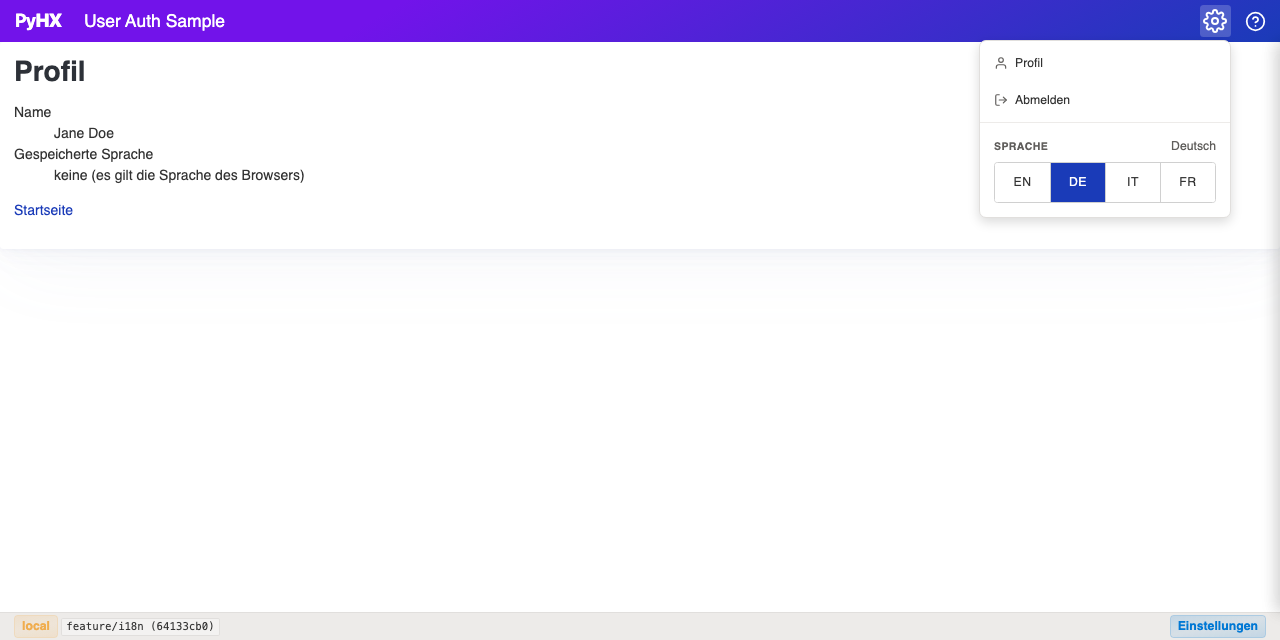
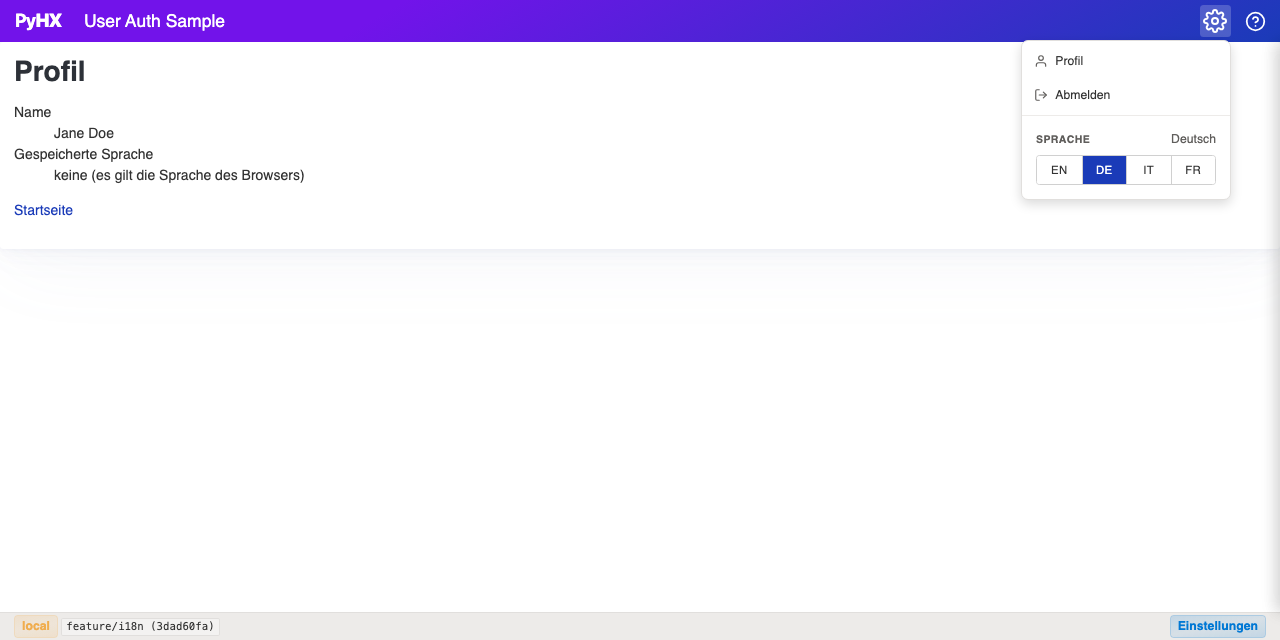
style(page-templates): compact settings menu on desktop, touch-size on phones (T-005)

Changed region(s): [[0.7812, 0.0625, 0.9688, 0.3438], [0.125, 0.9688, 0.1562, 1.0]]

diff --git a/src/pyhx/static/css/pyhx/components/layout/settings-menu.css b/src/pyhx/static/css/pyhx/components/layout/settings-menu.css
@@ -72,7 +72,7 @@
     flex-direction: column;
 
     /* Box */
-    width: 18rem;
+    width: 15rem;
     border: var(--hx-border-width-sm) solid var(--hx-color-neutral-300);
     border-radius: var(--hx-radius-lg);
 
@@ -158,7 +158,7 @@
         gap: var(--hx-spacing-sm);
 
         /* Box */
-        padding: 0.625rem 0.75rem;
+        padding: 0.5rem 0.625rem;
         border-radius: var(--hx-radius-md);
 
         /* Typography */
@@ -200,7 +200,7 @@
     & > button {
         /* Box */
         width: auto;
-        height: 2.75rem;
+        height: 2rem;
         margin: 0;
         padding: 0;
         border: 0;
@@ -208,7 +208,7 @@
         border-radius: 0;
 
         /* Typography */
-        font-size: var(--hx-text-sm);
+        font-size: 0.8125rem;
         font-weight: 500;
         letter-spacing: 0.04em;
         color: var(--hx-color-text);
@@ -265,6 +265,14 @@
 
     .hx-settings-menu__choices > button {
         /* Box */
-        height: 3rem;
+        height: 2.75rem;
+    }
+}
+
+/* Touch input: targets of at least 44px, also on larger screens. */
+@media (pointer: coarse) {
+    .hx-settings-menu__choices > button {
+        /* Box */
+        height: 2.75rem;
     }
 }
